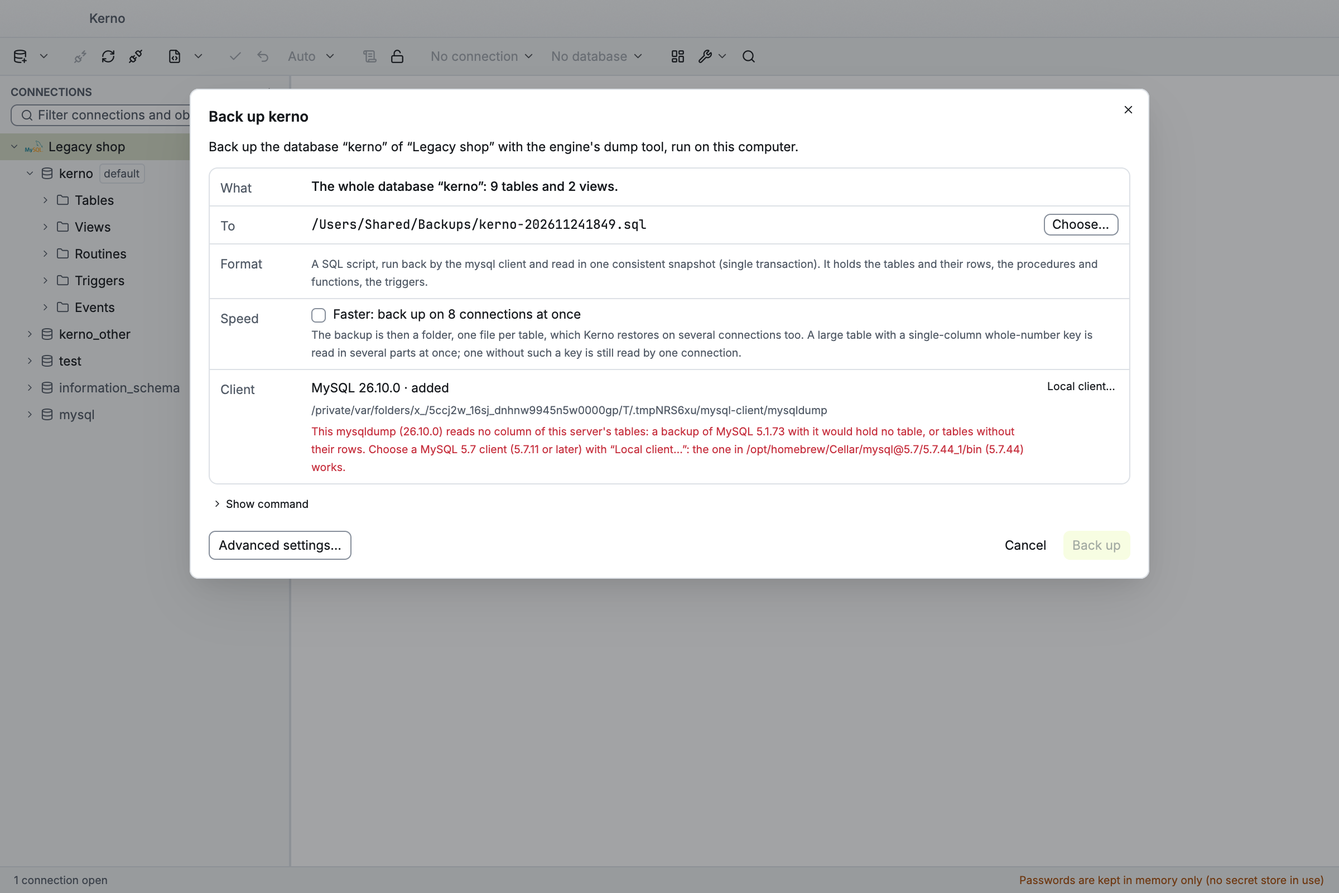
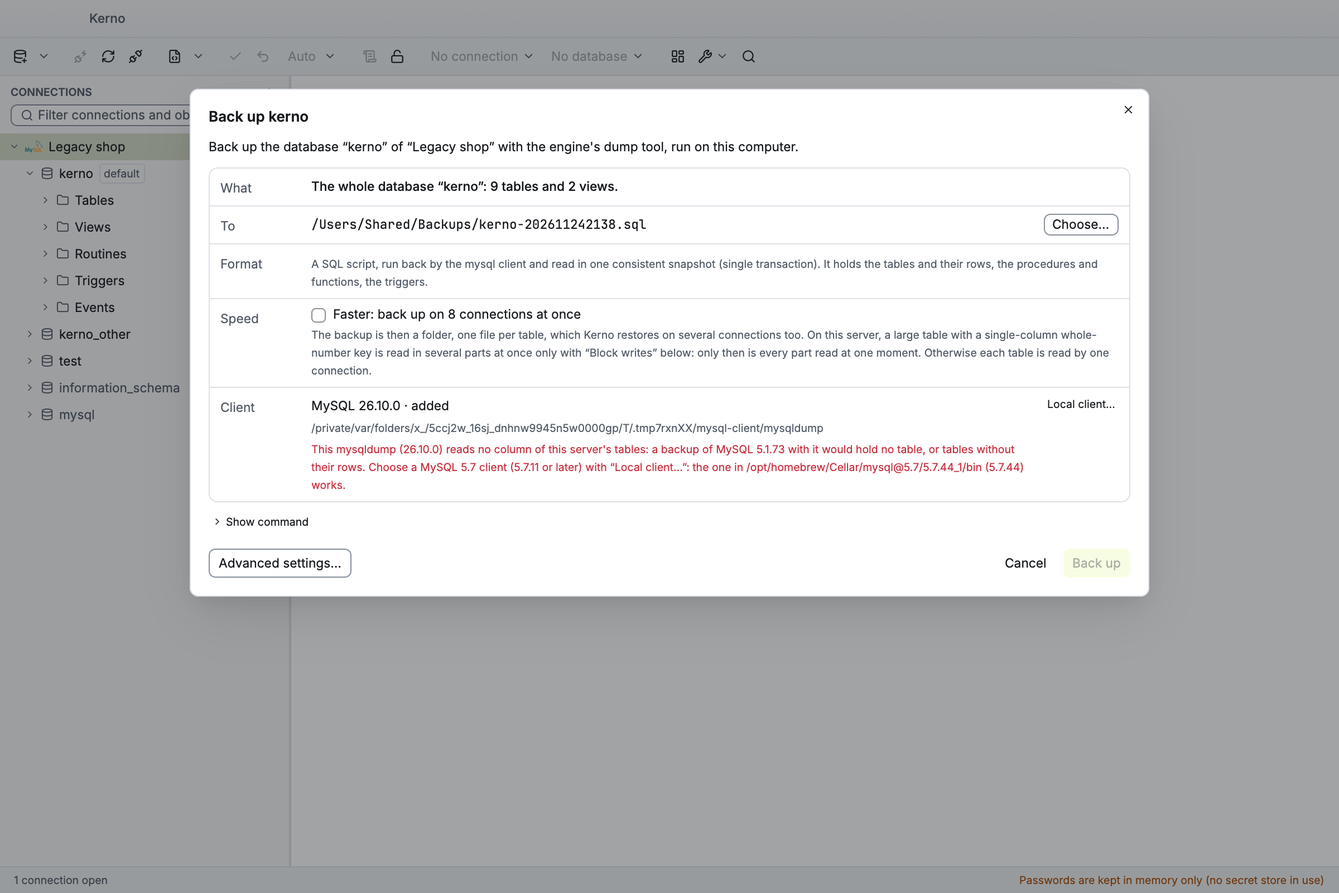
docs: K63's second review, G1 to G10, D-135's cut rule, BENCH and captures again
Claude-Session: https://claude.ai/code/session_01NqMSmdUNsq6S4HrmKZnkEG

Changed region(s): [[0.2188, 0.375, 0.8438, 0.5625], [0.125, 0.5625, 0.875, 0.6875], [0.1562, 0.4062, 0.1875, 0.4688]]

diff --git a/docs/FEATURES.md b/docs/FEATURES.md
@@ -228,7 +228,7 @@ Tests: `crates/kerno/src/ui_tests.rs`, `crates/kerno/src/import_dialog.rs`, `cra
 | G3 A PostgreSQL restore whose backup names a role the server does not have (K35, D-108): the failure view says first which role and that the server has none (asked of the server; otherwise that the server would not let the user use it), then what to do, the tool's output below as before; read from the SQL the tool printed (pg_restore's failed command, psql's script line), in any language; an archive restored in one transaction gets "Restore without owners and privileges…" (`--no-owner --no-privileges`, shown and asked as any restore, twice on production; a run that went on past it says so), a plain script no button but what to do (create the role, or back up as an archive); the simple restore's "Leave out the backup's owners and privileges" for archives, off by default, in step with the wizard's two checkboxes | done | core `tools::roles::tests::{the_owner_case_is_read_in_either_language, the_privilege_case_names_only_the_refused_role, a_quoted_role_name_is_unquoted, a_failure_not_about_a_role_names_none, psql_points_at_the_script_line}`; unit `backup_dialog::tests::a_refused_role_is_said_with_what_to_do`; UI `ui_tests/restore_roles.rs`: `a_missing_owner_is_said_and_the_restore_runs_again_without_owners`, `a_plain_script_says_what_to_do_without_a_retry`, `an_archive_from_another_server_restores_without_its_owners` | to take: `m12-restore-roles-{light,dark}` |
 | G3 A PostgreSQL restore whose archive needs an extension the server does not have (K39, D-112): before Start, the archive's list (`pg_restore --list`) and the server (`pg_available_extensions`, `pg_roles`) say which extensions and owning roles it lacks, in plain words above the settings (simple view and wizard); the extensions are left out through `--use-list` (ticked by default, the command saying what it leaves out), the owners' box ticked; nothing shown when the server has everything or cannot be asked; a failed `CREATE EXTENSION` said after the run too (any language), with one retry leaving out the extension and the owners at once | done | core `tools::archive::tests::{the_list_names_its_database_extensions_and_owners, leaving_an_extension_out_comments_its_entries, a_failed_extension_is_read_in_any_language}`, `tools::tests::each_restore_option_gives_its_argument`; unit `backup_dialog::tests::a_missing_extension_is_said_with_what_to_do`; UI `ui_tests/restore_extensions.rs`: `what_the_server_lacks_is_said_and_left_out_before_the_run`, `a_failed_extension_and_owner_are_said_and_one_retry_leaves_out_both`, `a_real_archive_restores_without_a_left_out_extension` | none: the owner checks it in the app |
 | G3 A faster backup (K48, D-117): the simple PostgreSQL backup's "Faster: back up on N connections at once" (N the machine's cores, 8 at most; off by default; shown beside the compressed archive) writes pg_dump's directory archive with `--jobs=N`, a folder: the "To" row ends with a slash, the save panel names the folder as typed, the end says the folder's size, Show in Finder; a failed or cancelled run removes only the folder it made (one already there is refused before the run, and again just before pg_dump starts); unticking or the script gives the single file back; the wizard shows the directory format and its jobs, a task keeps them, and the way back is not a hidden change (the simple restore's "Faster" too); the folder is restored from the simple restore (open panel or typed), on several connections | done | core `tools::tests::parallel_jobs_go_with_the_directory_format_only`; UI (`ui_tests/backup_simple.rs`): `faster_backs_up_into_a_folder_and_the_wizard_shows_it`, `the_simple_restores_faster_is_not_a_hidden_change`, `a_faster_backup_removes_only_the_folder_it_made`, `a_faster_backup_is_a_folder_the_simple_restore_reads_back` (real pg_dump and pg_restore) | offscreen, not committed (D-117) |
-| G3 A faster backup and restore for MySQL and MariaDB (K63, D-135): the simple backup's "Faster: back up on N connections at once" (N as K48's; off by default) writes a folder of SQL files, one per table, by N `mysqldump` at once, an InnoDB table of at least 32 MiB with a single-column integer key cut into N key ranges that start together under Kerno's lock of that table (one moment per table), then the routines, triggers and events and the views in their own files, and `kerno-backup.json` last; "Block writes during the backup, so that every table is read at the same moment" (off by default; Kerno's own `FLUSH TABLES WITH READ LOCK`, asked first with its statement, twice on production; said and not offered without RELOAD; taken before the tables are listed, watched during the run, a lost lock failing the run, one that does not come within 10 s stopping the start, the confirmation naming long queries), the other way said in plain words; named tables that are gone stop the run; the options the folder sets refused in the extra arguments; `utf8mb4` with servers that have it (plain backup too); a plain backup whose client read no column fails; a restore into a database that is not empty said before the run; the wizard's Format (Plain SQL / Folder) and Jobs, a task keeps them, the way back not a hidden change; cancel and failure stop every mysqldump, release the lock, remove only the folder the run made; the restore takes the folder (open panel or typed) and its "Faster" loads it on N clients (a table's ranges side by side on InnoDB), every file checked for client commands first, a failure saying which table, the server's error and what is in; an old server's client said before the run (mysqldump 8.4 and later, and MariaDB's 11.8, on MySQL 5.1; MariaDB's on 5.5 and 5.6), Start refused, a MySQL 5.7 client found named; "prefer" without TLS for the tools on 5.1 and 5.5 | done | core `tools::mysql_folder::tests::*` (13), `tools::tests::archives_are_told_from_scripts`; drivers (`kerno-mysql/tests/folder_backup.rs`): `a_folder_backup_restores_identical_on_every_server` (8.4, MariaDB 11, 5.1 to 5.7), `a_cancelled_backup_leaves_no_tool_no_folder_and_no_lock` (8.4, 5.1), `a_failed_restore_says_what_is_in_and_a_refused_one_loads_nothing`, `a_client_that_cannot_read_5_1_is_refused_and_its_empty_backup_fails`, `the_account_s_reload_privilege_is_read`, `the_read_lock_holds_writes_until_the_end`, `a_lost_read_lock_fails_the_backup`, `named_tables_that_are_gone_stop_the_backup`, `every_range_of_a_table_reads_one_moment`, `a_read_lock_that_does_not_come_stops_the_start`, `the_sizes_are_read_fresh_and_only_a_table_above_the_threshold_is_cut`; UI (`ui_tests/mysql_folder.rs`): `a_faster_mysql_backup_is_a_folder_the_restore_loads_on_several_clients` (real mysqldump and mysql), `the_consistency_choice_is_said_and_needs_reload`, `an_old_server_needs_an_old_client`, `a_plain_backup_that_read_no_column_fails_and_removes_its_file` | `m12-mysql-faster-backup-{light,dark}`, `m12-mysql-faster-backup-restore-{light,dark}`, `m12-mysql-faster-backup-old-client-{light,dark}` |
+| G3 A faster backup and restore for MySQL and MariaDB (K63, D-135): the simple backup's "Faster: back up on N connections at once" (N as K48's; off by default) writes a folder of SQL files, one per table, by N `mysqldump` at once, a table of at least 32 MiB with a single-column integer key cut into N key ranges where they read one moment (an InnoDB table from MySQL 5.5.3, its ranges started together under Kerno's lock of that table; any engine on any version under "Block writes"; none under "No locks"), then the routines, triggers and events and the views in their own files, and `kerno-backup.json` last; "Block writes during the backup, so that every table is read at the same moment" (off by default; Kerno's own `FLUSH TABLES WITH READ LOCK`, asked first with its statement, twice on production; said and not offered without RELOAD; taken before the tables are listed, watched during the run, a lost lock failing the run, one that does not come within 10 s stopping the start, the confirmation naming long queries), the other way said in plain words; named tables that are gone stop the run; the options the folder sets, the replication position and `--flush-logs` refused in the extra arguments, each naming what the folder sets instead, harmless ones taken; `--log-error` and `--verbose` off refused by both backups; `utf8mb4` with servers that have it (plain backup too); a plain backup whose client read no column fails (only a MySQL backup, on mysqldump's own line); a restore into a database that is not empty said before the run and in the confirmation, as the backup's content makes it; a utf8mb4 backup into a server before 5.5.3 said; the wizard's Format (Plain SQL / Folder) and Jobs, a task keeps them, the way back not a hidden change; cancel and failure stop every mysqldump, release the lock, remove only the folder the run made; the restore takes the folder (open panel or typed) and its "Faster" loads it on N clients (a table's ranges side by side on InnoDB), every file checked for client commands first, a failure saying which table, the server's error and what is in; an old server's client said before the run (mysqldump 8.4 and later, and MariaDB's 11.8, on MySQL 5.1; MariaDB's on 5.5 and 5.6), Start refused, a MySQL 5.7 client found named; "prefer" without TLS for the tools on 5.1 and 5.5 | done | core `tools::mysql_folder::tests::*` (16), `tools::tests::archives_are_told_from_scripts`; drivers (`kerno-mysql/tests/folder_backup.rs`): `a_folder_backup_restores_identical_on_every_server` (8.4, MariaDB 11, 5.1 to 5.7), `a_cancelled_backup_leaves_no_tool_no_folder_and_no_lock` (8.4, 5.1), `a_failed_restore_says_what_is_in_and_a_refused_one_loads_nothing`, `a_client_that_cannot_read_5_1_is_refused_and_its_empty_backup_fails`, `the_account_s_reload_privilege_is_read`, `the_read_lock_holds_writes_until_the_end`, `a_lost_read_lock_fails_the_backup`, `named_tables_that_are_gone_stop_the_backup`, `every_range_of_a_table_reads_one_moment`, `a_read_lock_that_does_not_come_stops_the_start`, `the_sizes_are_read_fresh_and_only_a_table_above_the_threshold_is_cut`, `under_the_read_lock_a_myisam_table_is_cut_too`, `a_slow_session_is_not_a_lost_lock`, `arguments_that_stall_or_blind_the_backup_are_refused`; UI (`ui_tests/mysql_folder.rs`): `a_faster_mysql_backup_is_a_folder_the_restore_loads_on_several_clients` (real mysqldump and mysql), `the_consistency_choice_is_said_and_needs_reload`, `an_old_server_needs_an_old_client`, `a_plain_backup_that_read_no_column_fails_and_removes_its_file`, `the_restore_says_what_happens_to_the_tables_already_there`, `a_utf8mb4_backup_for_an_old_server_is_said`, `only_a_mysql_backup_fails_on_no_fields` | `m12-mysql-faster-backup-{light,dark}`, `m12-mysql-faster-backup-restore-{light,dark}`, `m12-mysql-faster-backup-old-client-{light,dark}` |
 | G3 Objects picked in lists: schemas, the tables of a schema, All / None, complete backup, show views; the file holds only what is ticked | done | `a_backup_picks_objects_in_a_tree_and_writes_the_file`, `a_table_is_backed_up_alone_from_the_tree` | `final/backup-objects-light.png` (and -dark) |
 | G3 The tools' real options (pg_dump: format plain / custom / directory / tar, compression, encoding, INSERTs, no privileges, no owner, clean + if exists, create, jobs; mysqldump: consistency, routines, events, triggers, extended inserts, DROP TABLE, keys, hex, comments; pg_restore: clean, if exists, create, no owner, no privileges, jobs, one transaction; mysql: foreign-key checks off, log level, no beep; pg_dumpall: globals / roles / tablespaces only, schema only, role passwords, excluded databases), refused in core where the tool or the format has none; output folder + file name pattern with DBeaver's variables and a preview; extra arguments (refused when they change the server, the user, TLS or the password, or undo a protection); another user for one run | done | `the_options_page_changes_the_command`, `a_restore_asks_with_its_command_and_restores`; core: `each_pg_dump_option_gives_its_argument`, `pg_dump_refuses_what_it_cannot_do`, `each_mysqldump_option_gives_its_argument`, `each_pg_dumpall_option_gives_its_argument`, `each_restore_option_gives_its_argument`, `a_script_runs_like_a_restore_without_a_transaction`, `extra_arguments_are_split_like_a_shell`, `extra_arguments_that_change_the_route_or_carry_a_password_are_refused`, `another_user_runs_the_tool_and_no_secret_is_kept`, `file_names_fill_the_variables`, `archives_are_told_from_scripts` | `final/backup-settings-light.png` (and -dark) |
 | G3 A restore or a script asks with its command (twice on production, refused on read-only; `--create` names the archive's database it creates); a SQL file cannot run commands on this computer unasked: its check is a step of its own, the opt-in never pre-checked | done | `a_restore_asks_twice_on_production_and_is_refused_on_read_only`, `the_restore_confirmation_names_what_it_runs_and_what_a_failure_keeps`, `a_file_with_client_commands_is_refused_until_explicitly_allowed`, `a_restore_uses_the_client_sandbox_or_a_check_unless_allowed` | `m8-restore-light.png` (before the wizard) |

diff --git a/docs/plans/M12.md b/docs/plans/M12.md
@@ -4132,7 +4132,7 @@ stand-in clients 26.10 and 5.7.99) [`refused` never set; "prefer" kept for the t
 | F1 | A table named in the settings that the database no longer holds was skipped: the backup succeeded with less, or nothing | After the catalog, every name the catalog lacks stops the run before any mysqldump, each named, with what to do; a name that differs only by case matches only where `lower_case_table_names` says so | core `a_name_the_catalog_does_not_hold_is_said_and_case_follows_the_server`; driver `named_tables_that_are_gone_stop_the_backup` (8.4: `kept`, `orders` for `Orders`, `renamed_away`) [the check skipped] |
 | F2 | The read lock's session could be closed by the server (idle timeout, proxy) mid-run, and the backup still said it succeeded | That session gets a long `wait_timeout`, its `CONNECTION_ID()` is checked every 2 s and at the end; a lost session, another id or a failed `UNLOCK TABLES` fails the run ("The lock that kept writes out was lost at 21:04:12 …") and removes the folder | driver `a_lost_read_lock_fails_the_backup` (8.4 and 5.7: Kerno's session killed during the run) [the end check off] |
 | F3 | mysqldump 5.7 (the client the old-server message recommends) talks `utf8` and wrote a 4-byte character as `?`, exit 0; the plain backup too | `--default-character-set=utf8mb4` for the dump (plain and folder) and the restore's client when the server has utf8mb4 (5.5.3 on) and the client knows it (MySQL 5.5.3, MariaDB 5.5): checked accepted by 5.7.44, 26.10, 8.4.13 and MariaDB 11.8.9 | core `the_tools_talk_utf8mb4_where_the_server_and_the_client_have_it`; driver round trip with a 4-byte character and every byte value, compared with `HEX()`, on every server [`utf8mb4()` false: 5.5 to 5.7 restored `?`] |
-| F4 | Each range of a cut table was its own snapshot: a row whose key changed between two ranges' starts could be lost or doubled | The ranges of a table start together while Kerno's session holds `LOCK TABLES t READ`, released once every range's snapshot is taken (mysqldump's "Retrieving table structure" line, which follows its transaction on every client tried), 30 s at most; a table whose lock does not come within 10 s, or is refused, is dumped whole by one process and the log says so; only InnoDB tables are cut | driver `every_range_of_a_table_reads_one_moment` (8.4, MariaDB, 5.1: the second range starts a second late, a row's key moves from the first range to the second in between: restored once) [the table's lock removed: the row doubled]; core plan test (a large MyISAM table not cut) |
+| F4 | Each range of a cut table was its own snapshot: a row whose key changed between two ranges' starts could be lost or doubled | The ranges of a table start together while Kerno's session holds `LOCK TABLES t READ`, released once every range's snapshot is taken (mysqldump's "Retrieving table structure" line, which follows its transaction on every client tried), 30 s at most; a table whose lock does not come within 10 s, or is refused, is dumped whole by one process and the log says so; only InnoDB tables are cut (amended by G1 below) | driver `every_range_of_a_table_reads_one_moment` (8.4, MariaDB, 5.1: the second range starts a second late, a row's key moves from the first range to the second in between: restored once) [the table's lock removed: the row doubled]; core plan test (a large MyISAM table not cut) |
 | F5 | A pool task that panicked was neither done nor failed | A task's join error is a failure of its file, with its label | core `a_pool_task_that_panics_fails_its_file` [the join error skipped] |
 | F6 | The plain backup ignored mysqldump's "it has no fields" (exit 0, no table) | The same check in the plain backup: such a run fails and removes its file | UI `a_plain_backup_that_read_no_column_fails_and_removes_its_file` [the check off] |
 | F7 | `-w…` or `--wher=` in the extra arguments came after a range's `--where` and won | The folder backup refuses, in every spelling mysqldump takes (any prefix, `skip-`/`loose-` forms, short letters), the options it sets per file: `where`, `tab`, `tables`, `no-data`, `no-create-info`, `single-transaction`, `lock-all-tables`, `lock-tables`, `add-locks`, `databases`, `all-databases`, `triggers`, `routines`, `events`, `xml`, `opt`, `set-gtid-purged`; `-w -T -d -t -x -l -B -A -X -E -R`. Found: the general list already refuses `--result-file`/`-r` and their prefixes; `-T`/`--tab`, `-w`, `-d`, `-t`, `-x`, `-l`, `-B`, `-A` were not refused | core `the_folder_backup_refuses_the_options_it_sets_itself_in_every_spelling` [the check off] |
@@ -4144,6 +4144,26 @@ stand-in clients 26.10 and 5.7.99) [`refused` never set; "prefer" kept for the t
 
 Release notes material: F3 also fixes the plain MySQL backup with a client that defaults to `utf8` (mysqldump 5.7 and
 older): 4-byte characters (emoji, some CJK) were written as `?`.
+
+**The second review** (of 7424377, 1bbd132 and 53e35c0; two findings confirmed by a run; fixed on top; G1's rule
+is the coordinator's). "53e35c0's core" in brackets: the new driver test run against `tools.rs` and
+`mysql_folder.rs` as they were at 53e35c0.
+
+| | What was wrong | The fix | The test [mutation seen failing] |
+|---|---|---|---|
+| G1 | On MySQL 5.1 (no metadata locks) `LOCK TABLES t READ` let an open transaction that had already written to `t` COMMIT between two ranges' snapshots: a row doubled, backup and restore Ok | A table is cut only where its ranges read one moment (D-135's table): from MySQL 5.5.3 (and every MariaDB) an InnoDB table under Kerno's table lock; on any version and any engine (MyISAM, MEMORY too) under "Block writes", where the COMMIT waits until the end; never under "No locks" (G7). The wizard's hint says that "Block writes" is what cuts a large table on 5.1 | core `a_table_is_cut_only_where_its_ranges_read_one_moment` [the version check removed]; driver `every_range_of_a_table_reads_one_moment` (8.4 and MariaDB autocommit, cut; 8.4 open transaction, read whole after the lock's 10 s; 5.1 open transaction and autocommit, not cut; 5.1 and 8.4 open transaction with "Block writes", cut, the COMMIT returned after the release) [53e35c0's core: on 5.1 with the open writer, 1001 rows, the row twice]; `under_the_read_lock_a_myisam_table_is_cut_too` (8.4, 5.1: the MyISAM table in four ranges, rows, checksums and bytes equal) [53e35c0's core: not cut] |
+| G2 | `--source-data`, `--master-data`, `--flush-logs`, `--dump-replica`, `--dump-slave` made each range wait 30 s behind Kerno's table lock; `--log-error` and `--skip-verbose` hid the lines Kerno reads (the ranges' snapshot, "it has no fields") | The folder refuses the replication position (one moment of the whole server: use the plain backup to seed a replica) and `--flush-logs`; both backups refuse `--log-error` and `--verbose` turned off in any spelling (5.7.44, 26.10 and mariadb-dump 11.8 have no other such option) | core `a_backup_refuses_what_would_hide_mysqldump_s_lines` [`--verbose` off let through], `the_folder_backup_refuses_the_options_it_sets_itself_in_every_spelling`; driver `arguments_that_stall_or_blind_the_backup_are_refused` (the reviewer's two runs on 8.4: refused before any mysqldump, no folder, no log file) [53e35c0's core: `--source-data=2` waited 30 s, "its parts did not all start within 30 s"] |
+| G3 | The restore's warning said "dropped and created again" for a backup of the rows only | The words follow the backup's content and DROP TABLE: rows added (a table holding some stops on a duplicate key, or ends with rows twice without a key), created again, created again empty, or a stop at the first; the confirmation says it too | UI `the_restore_says_what_happens_to_the_tables_already_there` (five manifests: data only, all with and without DROP TABLE, definitions only, no table there; the wizard and the confirmation) [the data-only words off; the words left out of the confirmation] |
+| G4 | The lock's watcher sent its check on the session the catalog read used, and took 10 s without an answer for a lost lock | The watcher starts once the catalog is read; one check at a time, never dropped half-way; no answer is no evidence, only an error or another id is; the last check waits 60 s and says so if the session does not answer | driver `a_slow_session_is_not_a_lost_lock` (a recording session holds the catalog's read 12 s and the watcher's first check 12 s: the backup ends well; no check asked for before the catalog was read) [53e35c0's core: "The lock that kept writes out was lost"] |
+| G5 | A cut table waited for an empty pool, and the files behind it waited too | The first item of the queue that can start does: single files fill the processes a cut table waits for, which starts once it has them | core `single_files_start_while_a_table_waits_for_its_processes` [only the queue's first item may start]; BENCH (one cut table among eight, and its key skewed: the same within the noise, as the cut table comes first in both queues) |
+| G6 | "it has no fields" failed any plain run (restores, scripts, pg_dump) and the folder restore, on the bare phrase | Only a MySQL / MariaDB backup, on mysqldump's own line | core `only_mysqldump_s_own_line_says_no_fields` [the bare phrase]; UI `only_a_mysql_backup_fails_on_no_fields` (a restore whose client writes the line ends well) [the dialog's check on any run]; the backups' checks still pass (`a_plain_backup_that_read_no_column_fails_and_removes_its_file`, driver `a_client_that_cannot_read_5_1_is_refused_and_its_empty_backup_fails`) |
+| G7 | "No locks" still cut, with no moment at all | Nothing is cut; the wizard's Consistency says what each choice does to the folder | core `a_table_is_cut_only_where_its_ranges_read_one_moment` ["No locks" cutting InnoDB tables] |
+| G8 | The long statements' list missed `Execute`, could not see other accounts' statements without PROCESS, and read an error as none | `Execute` too; PROCESS read as RELOAD is; without it the confirmation says Kerno cannot see other accounts' statements; an error is said | unit `the_read_lock_s_confirmation_names_the_long_statements` (the account without PROCESS, a failed read) [the PROCESS sentence off] |
+| G9 | `--set-gtid-purged=OFF`, `--skip-lock-tables`, `--skip-add-locks`, `--skip-triggers`, `--skip-opt` were refused | `--set-gtid-purged=OFF` and `--skip-add-locks` taken as typed; `--skip-lock-tables` dropped (the folder sets each file's lock: kept, it came last and won, and a MyISAM table was read unlocked); `--skip-triggers` read as Triggers off (plan, files, manifest). `--skip-opt` stays refused, with `--compact`, `--skip-set-charset`, `--skip-add-drop-table`: `mysqldump … --skip-opt --help` (5.7.44) shows it turns off `add-drop-table`, `add-locks`, `create-options`, `disable-keys`, `extended-insert`, `lock-tables`, `quick` and `set-charset`, which the files and the restore's words rely on. Each refusal names the argument and what the folder sets instead | core `the_folder_backup_refuses_the_options_it_sets_itself_in_every_spelling` [`--skip-lock-tables` kept] |
+| G10 | A plain backup of 5.5.3+ now starts with `SET NAMES utf8mb4`, refused by 5.1; `--ignore-table` emptied a table's files the manifest still listed; the held test compared with a line said after UNLOCK; F8 checked log lines | The restore wizard reads the file's first 4 KB (a folder: its first file) and says so on a server before 5.5.3; `--ignore-table` and `--ignore-table-data` refused for the folder; the write's instant compared with "releasing the read lock", said before UNLOCK; the order checked on what Kerno's session sent (a recording session) | UI `a_utf8mb4_backup_for_an_old_server_is_said` [the file's head not read]; core refusal test; driver `the_read_lock_holds_writes_until_the_end` (FLUSH before `information_schema.TABLES` and `@@lower_case_table_names`, UNLOCK last) [53e35c0's core: no instant before UNLOCK] |
+
+Release notes material (G10): a plain MySQL backup of a 5.5.3 or later server, in utf8mb4 since F3, stops at its
+first statement when restored into MySQL 5.1 (ERROR 1115); the restore wizard says so before it runs.
 
 **Measured** (BENCH.md): on MySQL 8.4 with 8 processes, `kerno_analytics` (one 238 MB table cut in 8)
 backed up in 0.81–0.83 s against 1.79–1.88 s and restored in 6.5–8.4 s against 14.3–17.1 s; eight tables of 30 MB

diff --git a/docs/DECISIONS.md b/docs/DECISIONS.md
@@ -4661,10 +4661,9 @@ stock tools, on every supported version (`kerno_core::tools::mysql_folder`).
   CONSISTENT SNAPSHOT` on every client tried (5.5 to 26.10, MariaDB's 11.8, on MySQL 5.1 to 8.4 and MariaDB
   11). Writers of that table wait for those few tens of milliseconds; 30 s without every signal releases the
   lock and fails the backup. A lock that does not come within 10 s, or is refused (no LOCK TABLES privilege),
-  dumps that table whole by one process, and the log says so. Only InnoDB tables are cut: a MyISAM or MEMORY
-  table has no snapshot, so it is read whole under `--lock-tables` (a choice the owner asked to weigh: keeping
-  Kerno's lock for the whole read of a cut MyISAM table would block its writers as long, for a gain at backup
-  only, since its ranges load one after the other). Across tables, each mysqldump reads at its own moment (an
+  dumps that table whole by one process, and the log says so. Which tables are cut, by server version, engine
+  and consistency, is the table of the bullet "Which tables are cut" below (amended after the second review,
+  G1: the table lock gives one moment only where metadata locks exist). Across tables, each mysqldump reads at its own moment (an
   InnoDB table with `--single-transaction`, any other under `--lock-tables`): two tables are not read at the
   same instant, and the wizard says so in plain words. **"Block writes"** (off by default): Kerno's own session
   holds `FLUSH TABLES WITH READ LOCK`, taken before the catalog is read (F8, as `--lock-all-tables`), until the
@@ -4686,7 +4685,8 @@ stock tools, on every supported version (`kerno_core::tools::mysql_folder`).
   backup sets per file, in any spelling mysqldump takes (a prefix, a `skip-` or `loose-` form, a short letter):
   `where`, `tab`, `tables`, `no-data`, `no-create-info`, `single-transaction`, `lock-all-tables`,
   `lock-tables`, `add-locks`, `databases`, `all-databases`, `triggers`, `routines`, `events`, `xml`, `opt`,
-  `set-gtid-purged` (F7; the general refusal list already covered `--result-file` / `-r`).
+  `set-gtid-purged` (F7; the general refusal list already covered `--result-file` / `-r`). Amended by the
+  second review: see "The user's arguments" below.
 - **utf8mb4** (F3). The tools talk `--default-character-set=utf8mb4` (dump, plain and folder, and the
   restore's client) when the server has it (5.5.3 on) and the client knows it (MySQL 5.5.3, MariaDB 5.5);
   accepted by 5.7.44, 26.10, 8.4.13 and MariaDB 11.8.9. Before, mysqldump 5.7 talked `utf8` and wrote a 4-byte
@@ -4702,7 +4702,50 @@ stock tools, on every supported version (`kerno_core::tools::mysql_folder`).
   (the old client below, with `--skip-triggers`, exits 0 and writes no table).
 - **A restore into a database that is not empty** is said before the run: the backup's tables it already
   holds are dropped and created again from the backup, its other tables stay (or, for a backup made without
-  DROP TABLE statements, the restore stops at the first of them).
+  DROP TABLE statements, the restore stops at the first of them). Amended by the second review (G3): below.
+- **Which tables are cut** (amended after the second review, G1 and G7; the coordinator's two decisions):
+  a table is cut only where every range reads one moment, otherwise it is read whole by one process.
+
+  | Consistency | Server | InnoDB table | MyISAM, MEMORY, other | Why |
+  |---|---|---|---|---|
+  | Single transaction (default) | MySQL 5.5.3 and later, every MariaDB Kerno supports | cut, its ranges started under Kerno's `LOCK TABLES t READ` | whole, under `--lock-tables` | metadata locks: the table lock waits for a transaction that already wrote to `t`, and holds its COMMIT, until every range has its snapshot |
+  | Single transaction | MySQL before 5.5.3 (5.1, 5.5.0 to 5.5.2) | whole, one snapshot | whole, under `--lock-tables` | no metadata locks: a transaction that already wrote to `t` can COMMIT under `LOCK TABLES t READ`, between two ranges' snapshots (a row doubled on 5.1, the reviewer's run) |
+  | Block writes (`FLUSH TABLES WITH READ LOCK`) | every version | cut | cut (its ranges load one after the other) | nothing commits while the lock is held, the COMMIT of an open transaction included: every table is read at one moment, whatever its engine |
+  | No locks | every version | whole | whole | the user asked for no lock at all, and a cut table needs one |
+
+  So on 5.1 "Block writes" is what lets a large table be read on several connections, and the wizard's hint
+  says so on such a server.
+- **The scheduler** (G5): a table cut into N ranges starts once N processes are free (or none runs), and the
+  single files behind it fill the free processes meanwhile. A second cut table waits until enough processes
+  are free again, so its ranges still start together.
+- **The watcher** (G4): the read lock's session is checked only once the catalog and the key bounds are read
+  (Kerno sends nothing else on it meanwhile), one check at a time, never dropped half-way; a check that has
+  not answered yet is no evidence: only an error or another connection's id is a lost lock. The last check
+  waits 60 s: a session that does not answer by then fails the backup in words ("could not confirm …"),
+  and the lock goes when the app closes the session.
+- **The user's arguments** (G2, G9, G10): the folder backup refuses, naming the argument and what it sets
+  instead, the options it sets per file (`where`, `tab`, `tables`, `ignore-table`, `ignore-table-data`,
+  `databases`, `all-databases`, `no-data`, `no-create-info`, `xml`, `single-transaction`, `lock-all-tables`,
+  `lock-tables`, `add-locks`, `triggers`, `routines`, `events`, `set-gtid-purged`), what would undo the files'
+  settings (`opt`, `compact`, `set-charset`, `add-drop-table`), the replication position (`source-data`,
+  `master-data`, `dump-replica`, `dump-slave`, `apply-replica-statements`, `apply-slave-statements`,
+  `include-source-host-port`, `include-master-host-port`: one position of the whole server, which files read at
+  different moments cannot give; the plain backup is the way to seed a replica) and `flush-logs` (each file
+  would flush the logs, and waits behind Kerno's table lock, 30 s, the reviewer's run). It takes
+  `--set-gtid-purged=OFF` and `--skip-add-locks` as typed, drops `--skip-lock-tables` (it sets each file's
+  locks) and reads `--skip-triggers` as the Triggers setting off. Both backups, plain and folder, refuse
+  `--log-error` and `--verbose` turned off in any spelling: Kerno reads mysqldump's lines (a table it could not
+  read, a range's snapshot). mysqldump 5.7.44, 26.10 and mariadb-dump 11.8 have no other option that sends
+  those lines elsewhere or silences them.
+- **"it has no fields"** (G6) fails a MySQL or MariaDB backup only, on mysqldump's own line ("-- Skipping dump
+  data for table …, it has no fields"), not on the phrase in another line or another tool's output.
+- **What a restore does to the tables already there** (G3) follows the backup's content: rows added (data
+  only: a table that already holds some of them stops on a duplicate key, or ends with rows twice without a
+  key), dropped and created again (all, with DROP TABLE), dropped and created again empty (definitions only,
+  with DROP TABLE), or a stop at the first (no DROP TABLE). The wizard and the confirmation say it.
+- **A plain backup in utf8mb4 into an older server** (G10): since F3, a backup of a 5.5.3 or later server
+  starts with `SET NAMES utf8mb4`, which MySQL before 5.5.3 refuses (ERROR 1115, at the first statement). The
+  restore wizard reads the file's first 4 KB: on such a server it says so before anything runs.
 - **The restore.** The folder is offered by the restore as one backup (the open panel takes folders for
   MySQL too). "Faster: restore on N connections at once", off by default as PostgreSQL's: N `mysql` clients,
   one file each; a table's first file alone, then its ranges side by side when its engine at the backup

diff --git a/docs/GUIDE.md b/docs/GUIDE.md
@@ -42,7 +42,8 @@ something Kerno offers, Kerno says so in words that name the release it needs, i
 
 | What | MySQL 5.1 | 5.5 | 5.6 | 5.7 | What Kerno does without it |
 | --- | --- | --- | --- | --- | --- |
-| `utf8mb4` (5.5.3) | no | yes | yes | yes | The connection speaks `utf8`. A character a column's character set cannot hold (an emoji in a `utf8` column, on any release) is refused by an edit, see the next row |
+| `utf8mb4` (5.5.3) | no | yes | yes | yes | The connection speaks `utf8`. A character a column's character set cannot hold (an emoji in a `utf8` column, on any release) is refused by an edit, see the next row. A backup of a newer server starts with `SET NAMES utf8mb4` and stops at its first statement on 5.1 (ERROR 1115): the restore says so before it runs |
+| Metadata locks (5.5.3) | no | yes | yes | yes | The faster backup cuts a large table into parts read at once only with “Block writes”: `LOCK TABLES … READ` does not hold back a transaction that already wrote |
 | Strict mode on by default (5.7) | no | no | no | yes | Outside strict mode the server stores a value too long for its column, out of range, or with a character it cannot hold, cut or changed, with only a warning. Kerno stops the apply at that statement and changes nothing: "the server would store another value than the one written: Data truncated for column 'c' at row 1" |
 | TLS that Kerno accepts (TLS 1.2 with an ECDHE key exchange) | no (TLS 1.0) | no (TLS 1.0) | yes (OpenSSL builds) | build-dependent (5.7.44's official build offers DHE only: no) | SSL mode "prefer" connects without TLS; "require" and "verify-*" refuse with "This server only offers an old TLS that Kerno does not accept." and the next step (prefer or disable on a trusted network, an SSH tunnel, or a server update) |
 | Passwords with the pre-4.1 hash (`old_passwords`) | can sign in | can sign in | refused by the server (5.6.5) | gone | Refused: "The account … has an old password hash that Kerno does not accept." The administrator sets the password again with `old_passwords = 0` |
@@ -624,28 +625,41 @@ it made, never a folder that was already there: a folder of that name stops the 
 
 MySQL and MariaDB get the same **Faster: back up on N connections at once** beside their SQL script: Kerno runs
 N `mysqldump` at once, one per table, into a folder of SQL files, and cuts a large table whose key is one
-whole-number column into parts read side by side (a large table without such a key is still read by one
-connection). The procedures, functions, triggers, events and views come last, in their own files, and a small
+whole-number column into parts read side by side, where every part can be read at the same moment: a large
+InnoDB table (MySQL 5.5.3 and later, every MariaDB), and with **Block writes** (below) a large table of any engine
+on any version, MySQL 5.1 included. Any other table is read by one connection, and so is every table with
+"No locks". The procedures, functions, triggers, events and views come last, in their own files, and a small
 `kerno-backup.json` names every file: **Restore…** takes that folder as one backup, and its **Faster: restore
 on N connections at once** loads several tables at a time (the parts of a large InnoDB table side by side). A
 failed restore stops the others and says which table, the server's error, what is loaded and what is not.
 
 With "Faster", **Block writes during the backup, so that every table is read at the same moment** (off by
 default) says how the backup is consistent. Off, each table is read at one moment, all its parts included (the
-parts of a large table start together while Kerno holds that table's read lock for a moment; a table whose lock
-does not come within 10 s is read whole), but two tables are not read at the same instant. On, Kerno holds
+parts of a large InnoDB table start together while Kerno holds that table's read lock for a moment; a table whose
+lock does not come within 10 s is read whole; before MySQL 5.5.3 that lock does not hold back a transaction that
+already wrote, so no table is cut there), but two tables are not read at the same instant. On, Kerno holds
 `FLUSH TABLES WITH READ LOCK` on the server from before it lists the tables until the last is read: every write
 on that server waits until the backup ends, so Kerno shows the statement and asks first (twice on production),
 naming any query that has been running for 5 s or more, since the lock waits for it. A lock that does not come
 within 10 s stops the backup before it starts; one lost during the run (the server closed Kerno's session)
-fails it. It needs the RELOAD privilege; an account without it is told so and cannot tick it. The extra
-arguments may not set what the folder backup sets for each file (`--where`, `--tab`, `--no-data` and the like).
+fails it. It needs the RELOAD privilege; an account without it is told so and cannot tick it. Without the PROCESS
+privilege Kerno sees only its own account's queries, and the confirmation says so. The extra arguments may not
+set what the folder backup sets for each file (`--where`, `--tab`, `--no-data`, `--ignore-table` and the like),
+nor ask for a replication position (`--source-data`, `--master-data`, `--dump-replica`…: use the plain backup to
+seed a replica) or `--flush-logs`; each refusal names the argument and what the folder sets instead.
+`--set-gtid-purged=OFF`, `--skip-add-locks`, `--skip-lock-tables` and `--skip-triggers` are taken. Neither
+backup takes `--log-error` or `--skip-verbose`: Kerno reads what mysqldump says.
 
-A folder restored into a database that already holds some of the backup's tables is said before the run: those
-tables are dropped and created again from the backup; the database's other tables stay.
+A folder restored into a database that already holds some of the backup's tables is said before the run, and in
+the confirmation, as the backup was made: those tables are dropped and created again from the backup (empty, for
+a backup of the definitions only), the database's other tables stay; without DROP TABLE statements the restore
+stops at the first of them; a backup of the rows only adds its rows to the tables there (a table that already
+holds some stops on a duplicate key, or ends with rows twice when it has no key).
 
 MySQL and MariaDB tools talk `utf8mb4` with a server that has it (5.5.3 on): a MySQL 5.7 client no longer
-writes a 4-byte character (an emoji) as `?`, in the plain backup as in the folder.
+writes a 4-byte character (an emoji) as `?`, in the plain backup as in the folder. Such a backup starts with
+`SET NAMES utf8mb4`, which a server before 5.5.3 refuses (ERROR 1115): restoring it into MySQL 5.1, the wizard
+says so before it runs.
 
 An old server needs an old client. MySQL's `mysqldump` 8.4 and later, and MariaDB's `mariadb-dump` 11.8, read
 no column of a MySQL 5.1 table (the backup would hold no table), and `mariadb-dump` cannot read MySQL 5.5 and

diff --git a/docs/BENCH.md b/docs/BENCH.md
@@ -264,7 +264,26 @@ table cut into ranges as on eight tables; about 1.7 and 2 times on 5.1. The file
 
 These were taken before the review's F4 (D-135): the ranges of one table now start together while Kerno holds
 that table's read lock, which adds the start of the processes (tens of milliseconds) to the backup of a cut
-table. Not measured again.
+table.
+
+**After the second review** (G5, the scheduler; same machine and tools, 8 processes, 2026-11-24 21:00–21:25, the
+1-minute load 3.3 to 8.0 at the start of each run): eight tables, one of 1M rows of `big_table` (238 MB, cut in
+8) and seven of 125,000 rows (whole), 570.6 MB written, 16 files; then the same with the large table's key
+skewed (its last 1,000 ids moved up by 10⁹, so the first range holds 999,000 rows). "Before G5" is the same
+build with the old queue (only its first item may start).
+
+| Database | Plain backup | Plain restore | Faster backup | Faster restore |
+|---|---|---|---|---|
+| One cut table among eight | 3.40, 3.28, 3.94 s | 29.72, 31.32, 27.70 s | 1.15, 1.74, 1.55 s | 8.09, 15.77, 9.48 s |
+| The same, before G5 | 3.61, 4.31, 3.72 s | 27.81, 28.99, 30.11 s | 1.29, 1.82, 1.24 s | 8.80, 10.34, 9.95 s |
+| Its key skewed | 3.94, 4.46, 3.79 s | 28.93, 26.92, 26.80 s | 3.34, 2.09, 2.15 s | 18.91, 17.31, 17.57 s |
+| The same, before G5 | 3.39, 3.51, 3.31 s | 30.13, 27.01, 25.71 s | 3.01, 2.16, 3.66 s | 19.11, 18.23, 18.32 s |
+
+With one cut table the two queues are the same within the noise: the cut table comes first and starts on an
+empty pool in both, and the old queue then let the single files take each process its ranges freed. G5 changes
+the order only when a cut table waits behind running files (a second cut table): the files behind it now take
+the free processes meanwhile. A skewed key leaves one range with most of the rows: the backup then gains about
+1.6 times, the restore 1.5 times, against 2.2 to 3 and 2.8 to 3.4 with an even key.
 
 **The threshold** (`RANGE_THRESHOLD`, 32 MiB): one table of `big_table`'s rows, backed up and restored whole by
 one process, then cut into 8 ranges, three runs each (load 3 to 6):

diff --git a/docs/PROGRESS.md b/docs/PROGRESS.md
@@ -1822,3 +1822,18 @@ workspace is green there: 2,101 passed, 3 ignored (the three measurements ignore
   does not come within 10 s stops the start, and the confirmation names the long queries (F9).
 - Added: a test that the lock is held during the run, a restore into a database that is not empty (said
   before the run), and the size threshold's real path. D-135 amended (F4's rule above all).
+
+## 2026-11-24 — K63: the second review's ten findings fixed
+
+- A second review of the fixes found ten more, two confirmed by a run (a row doubled on MySQL 5.1; the
+  replication options stalling each range 30 s). Fixed on top, each test seen failing on the code before it
+  (docs/plans/M12.md, the second K63 table): a table is cut only where its ranges read one moment, by server
+  version, engine and consistency (D-135's table: before 5.5.3 only under "Block writes", where any engine is
+  cut; never under "No locks") (G1, G7); the folder refuses the replication position and `--flush-logs`, both
+  backups `--log-error` and `--verbose` turned off (G2); the restore's words follow the backup's content, in the
+  wizard and the confirmation (G3); the lock's watcher starts after the catalog and takes no answer for no
+  evidence (G4); single files fill the processes a cut table waits for (G5); "it has no fields" fails only a
+  MySQL backup, on mysqldump's own line (G6); long `Execute` statements are named, an account without PROCESS
+  is told what Kerno cannot see, an error is said (G8); harmless arguments are taken (G9); a utf8mb4 backup
+  into a server before 5.5.3 is said, `--ignore-table` refused, the lock test checks what the server saw (G10).
+- BENCH: one cut table among eight, and its key skewed, measured again.
